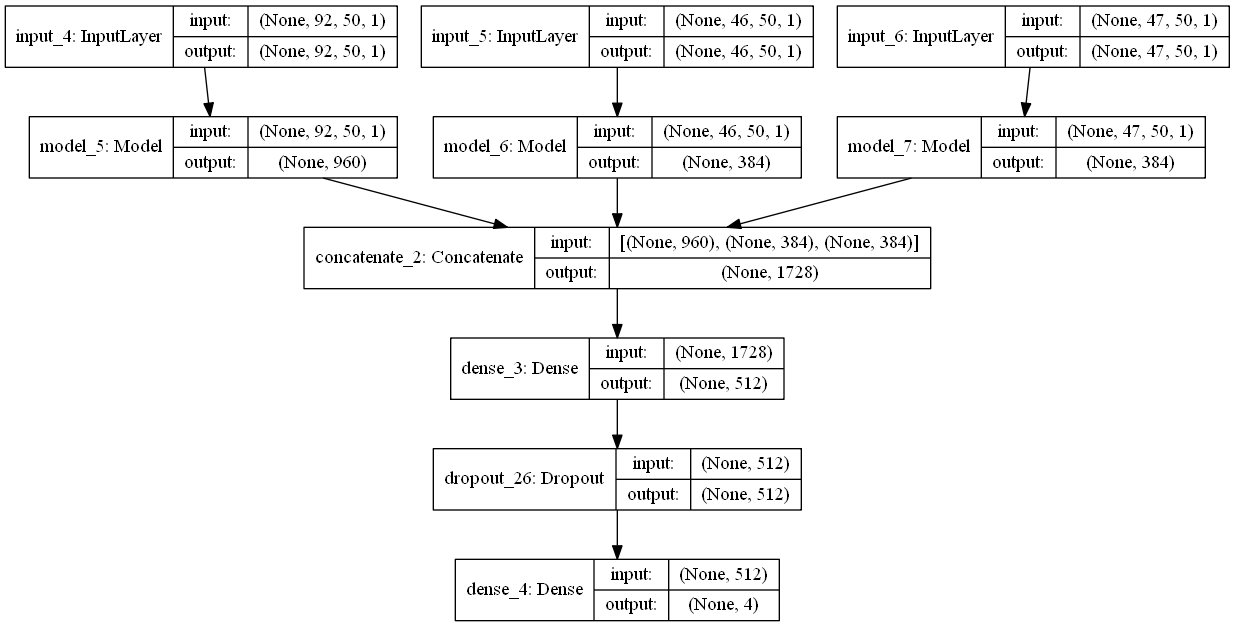
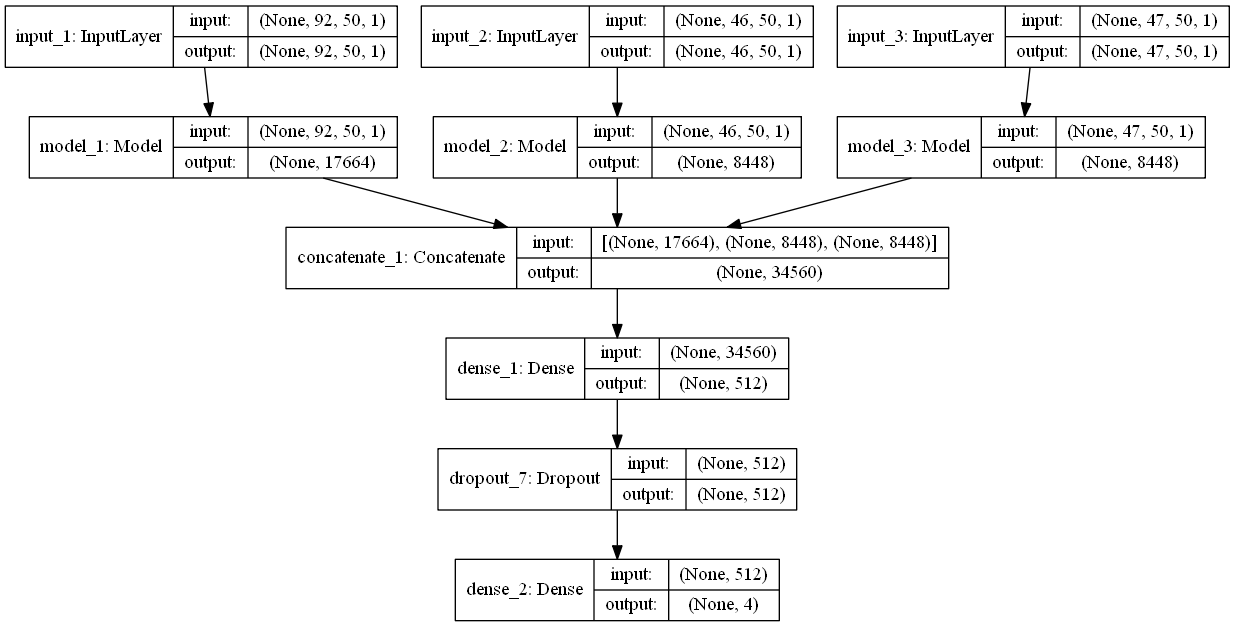
make classification great again

diff --git a/seismic_ml_kernel.py b/seismic_ml_kernel.py
@@ -174,7 +174,7 @@ def ci_multi_train_classification (X_train, y_train, num_epochs = 20):
 	for i in range(len(X_train)):
 		X_train[i] = X_train[i].astype('float32') 
 		X_train[i] /= np.max(X_train[i]) # Normalise data to [0, 1] range
-		vision_model_inp, vision_model_out = ci_vision_model (X_train[i], i, 'classification', 2)
+		vision_model_inp, vision_model_out = ci_vision_model (X_train[i], i, 'classification')
 		vision_model_inputs.append(vision_model_inp)
 		vision_model_outputs.append(vision_model_out)
 	
